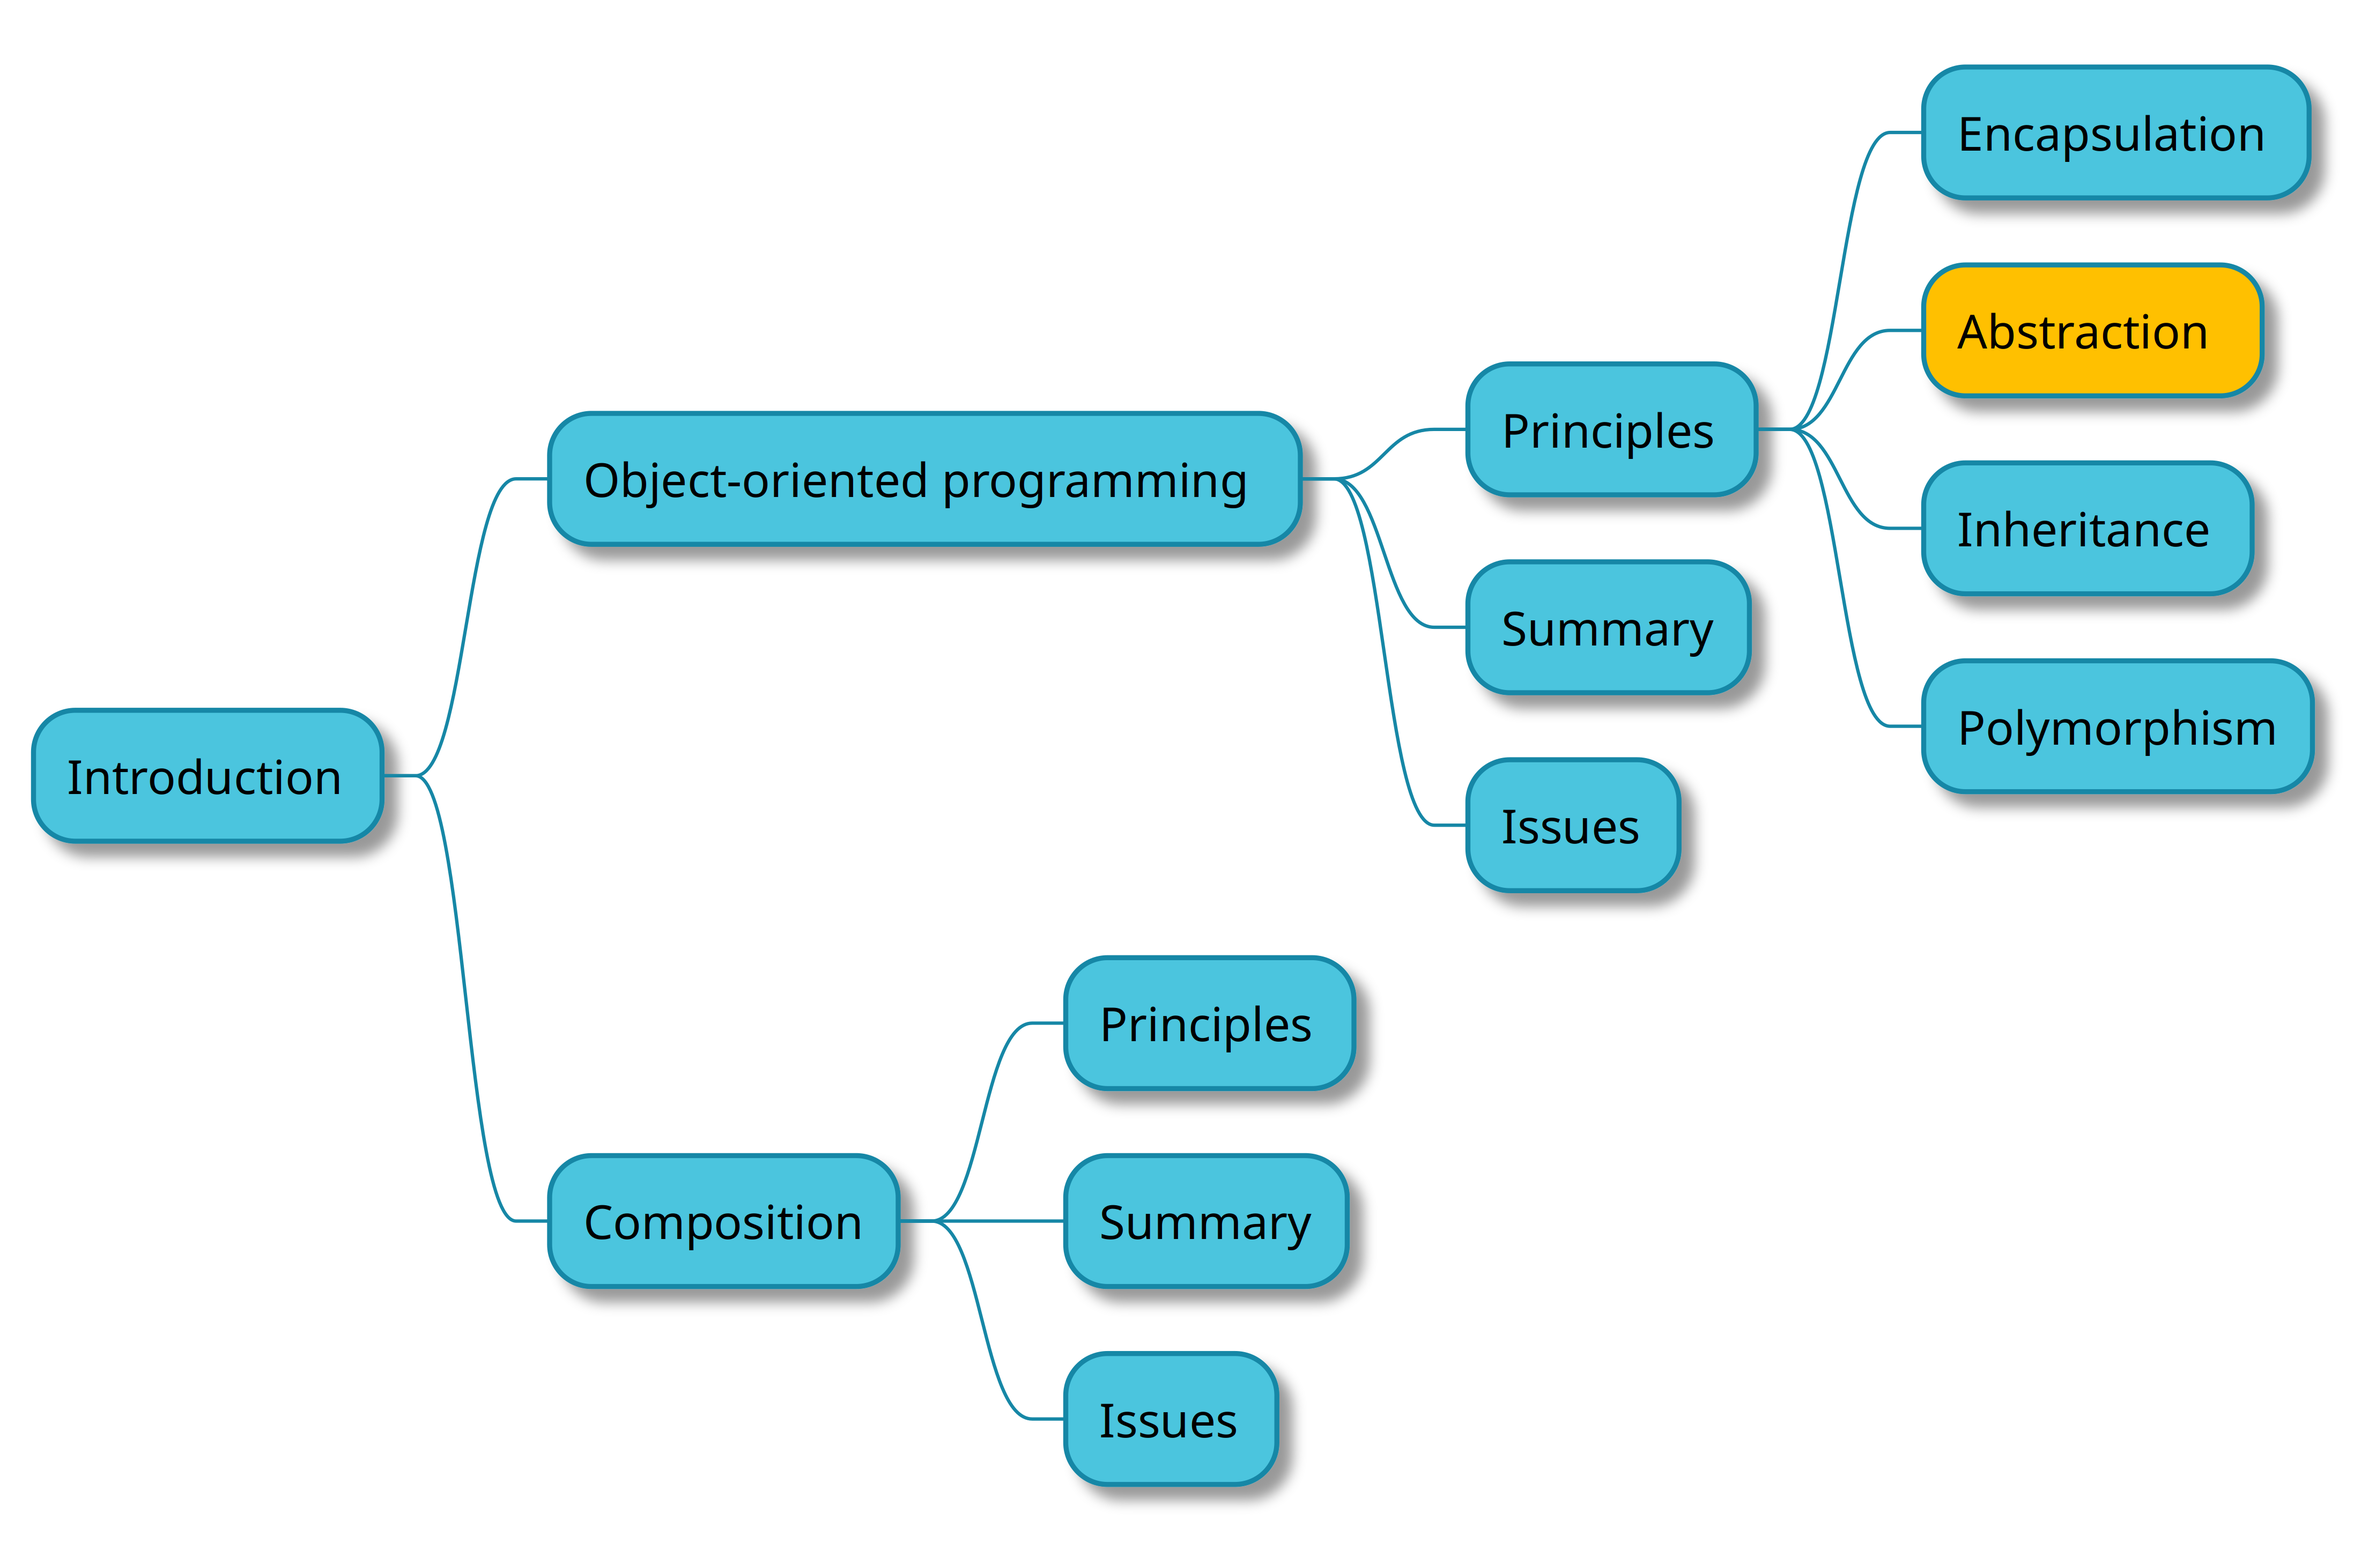
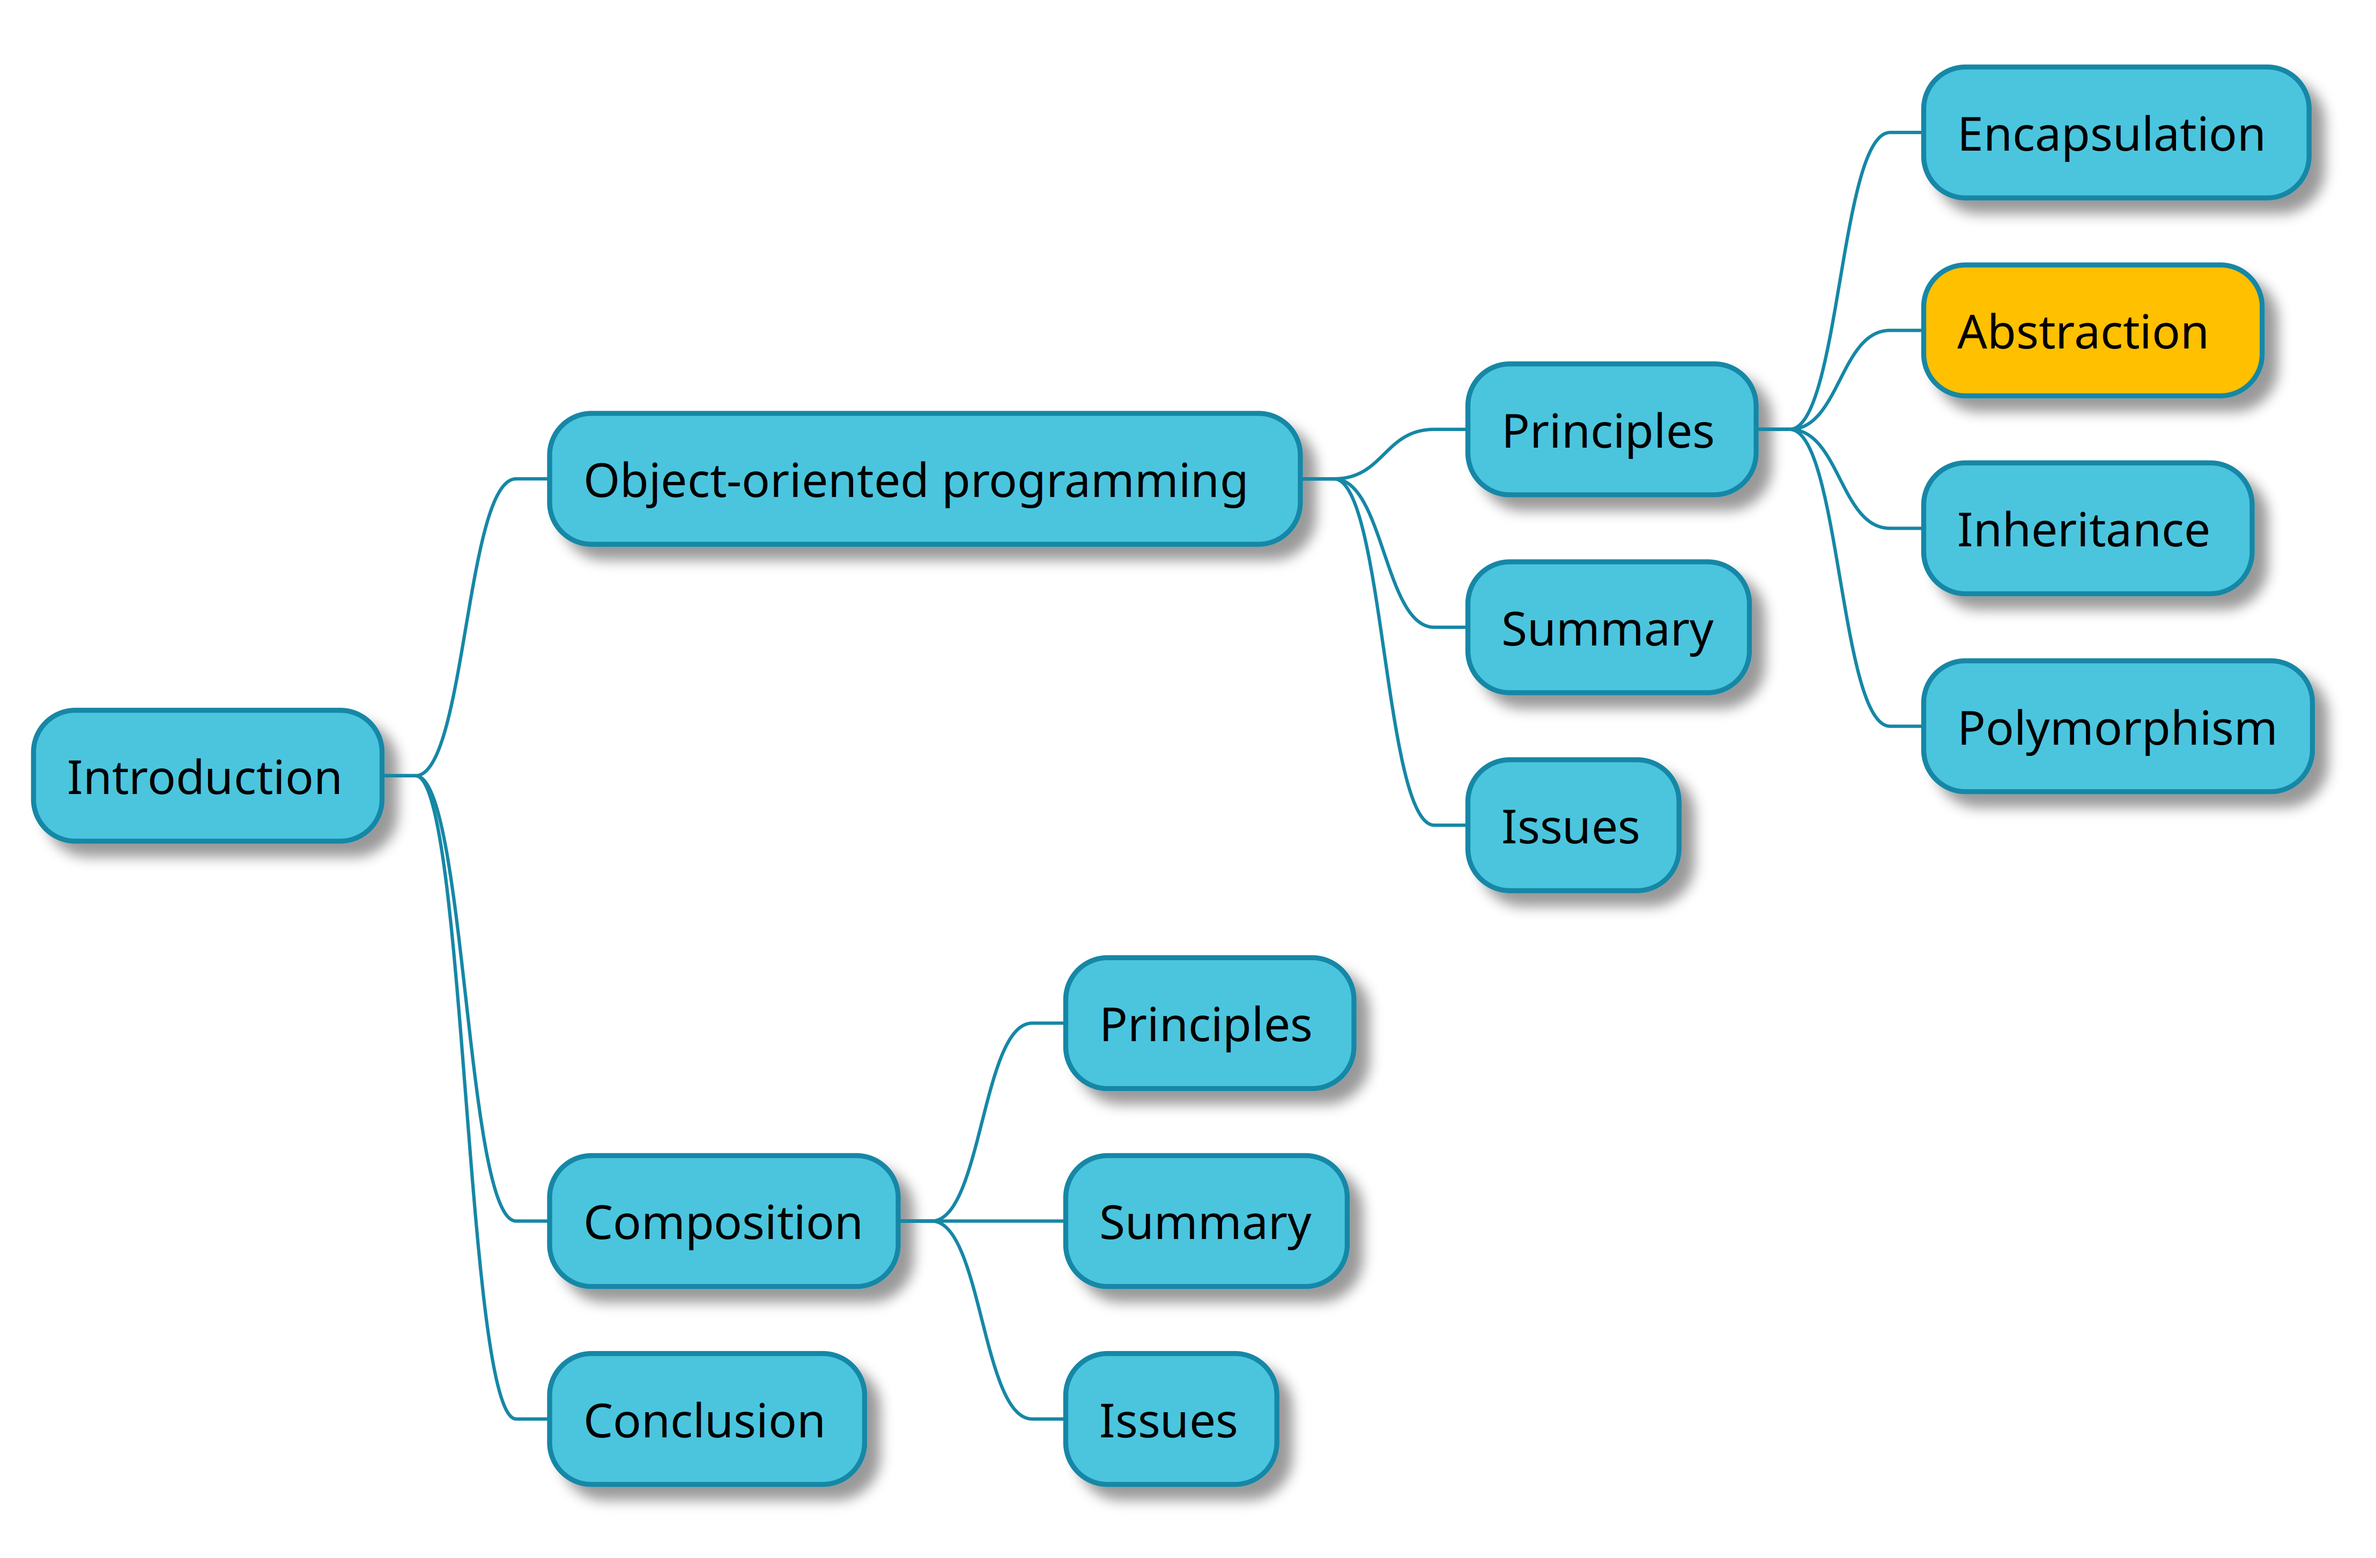
Add `conclusion` chapter.

Changed region(s): [[0.218, 0.8672, 0.3737, 0.9911]]

diff --git a/src/session--composition-and-inheritance/conclusion.tex b/src/session--composition-and-inheritance/conclusion.tex
@@ -1,0 +1,54 @@
+\begin{sepframe}{Conclusion}{}
+\end{sepframe}
+
+\begin{frame}[fragile,c]
+    \frametitle{Composition and inheritance}
+    \framesubtitle{Map}
+
+    \makebox[\linewidth]{\includegraphics[width=\paperwidth]{src/session--composition-and-inheritance/resources/summary-conclusion.png}}
+\end{frame}
+
+\begin{frame}
+    \frametitle{Composition and inheritance}
+    \framesubtitle{Conclusion / When to use composition?}
+
+    \begin{itemize}[<+->]
+        \item Use it everywhere,
+        \item As much as you want,
+        \item Prefer it to inheritance.
+    \end{itemize}
+\end{frame}
+
+\begin{frame}
+    \frametitle{Composition and inheritance}
+    \framesubtitle{Conclusion / Where to use it?}
+
+    \begin{itemize}[<+->]
+        \item When customizing part of a framework's component,
+        \item When building custom library.
+    \end{itemize}
+\end{frame}
+
+% insert example of Ileana here
+
+\begin{frame}
+    \frametitle{Composition and inheritance}
+    \framesubtitle{Conclusion / Advantages of composition over inheritance}
+
+    \begin{itemize}[<+->]
+        \item Clearer code,
+        \item Ease of testing,
+        \item Works well with S.O.L.I.D. principles,
+        \item Code instantly fails to run if an updated interface is not fulfilled.
+    \end{itemize}
+\end{frame}
+
+\begin{frame}
+    \frametitle{Composition and inheritance}
+    \framesubtitle{Conclusion / Drawbacks of composition over inheritance}
+
+    \begin{itemize}[<+->]
+        \item Code is more verbose,
+        \item $\cdots$
+    \end{itemize}
+\end{frame}

diff --git a/src/session--composition-and-inheritance/index.tex b/src/session--composition-and-inheritance/index.tex
@@ -10,6 +10,8 @@
 
 \input{composition.tex}
 
+\input{conclusion.tex}
+
 \input{outroduction.tex}
 
 \input{references.tex}
